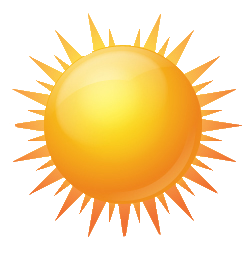
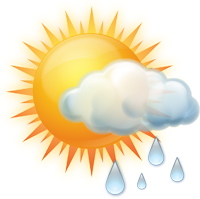
icones png

diff --git a/painel de temperatura/painel/src/componentes/estilos_paginas/painel.scss b/painel de temperatura/painel/src/componentes/estilos_paginas/painel.scss
@@ -13,21 +13,109 @@
     }
 }
 
+
 @mixin icone {
-        width: 100px;
-        height: 66px;
-        margin-top: 6px;
-        background-size: cover;
+    width: 100px;
+    height: 100px;
+    background-size: 100px 100px;
 }
 
+    .a1{
+        @include icone;
+        background: url('../../img/icones_temperatura/1.png') no-repeat;
+    }
 
+    .a1n{
+        @include icone;
+        background: url('../../img/icones_temperatura/1n.png') no-repeat;
+    }
+    .a2{
+        @include icone;
+        background: url('../../img/icones_temperatura/2.png') no-repeat;
+    }
+    .a2n{
+        @include icone;
+        background: url('../../img/icones_temperatura/2n.png') no-repeat;
+    }
     .a2r{
         @include icone;
-        background: url('../../img/icones_temperatura/2r.jpg') no-repeat;
+        background: url('../../img/icones_temperatura/2r.png') no-repeat;
     }
-
+    .a2rN{
+        @include icone;
+        background: url('../../img/icones_temperatura/2rN.png') no-repeat;
+    }
+    .a3{
+        @include icone;
+        background: url('../../img/icones_temperatura/3.png') no-repeat;
+    }
+    .a3n{
+        @include icone;
+        background: url('../../img/icones_temperatura/3n.png') no-repeat;
+    }
+    .a3TM{
+        @include icone;
+        background: url('../../img/icones_temperatura/3TM.png') no-repeat;
+    }
     .a4{
-        background-size:100% 100%;
-        background-size: cover;
+        width: 100px;
+        height: 100px;
+        background-size: 100px 100px;
         background: url('../../img/icones_temperatura/4.png') no-repeat;
     }
+    .a4n{
+        @include icone;
+        background: url('../../img/icones_temperatura/4n.png') no-repeat;
+    }
+    .a4r{
+        @include icone;
+        background: url('../../img/icones_temperatura/4r.png') no-repeat;
+    }
+
+    .a4rN{
+        @include icone;
+        background: url('../../img/icones_temperatura/4rN.png') no-repeat;
+    }
+
+    .a5{
+        @include icone;
+        background: url('../../img/icones_temperatura/5.png') no-repeat;
+    }
+
+    .a5n{
+        @include icone;
+        background: url('../../img/icones_temperatura/5n.png') no-repeat;
+    }
+    .a6{
+        @include icone;
+        background: url('../../img/icones_temperatura/6.png') no-repeat;
+    }
+    .a6n{
+        @include icone;
+        background: url('../../img/icones_temperatura/6n.png') no-repeat;
+    }
+    .a7{
+        @include icone;
+        background: url('../../img/icones_temperatura/7.png') no-repeat;
+    }
+    .a7n{
+        @include icone;
+        background: url('../../img/icones_temperatura/7n.png') no-repeat;
+    }
+    .a8{
+        @include icone;
+        background: url('../../img/icones_temperatura/8.png') no-repeat;
+    }
+    .a8n{
+        @include icone;
+        background: url('../../img/icones_temperatura/8n.png') no-repeat;
+    }
+    .a9{
+        @include icone;
+        background: url('../../img/icones_temperatura/9.png') no-repeat;
+    }
+    .a9n{
+        @include icone;
+        background: url('../../img/icones_temperatura/9n.png') no-repeat;
+    }
+
